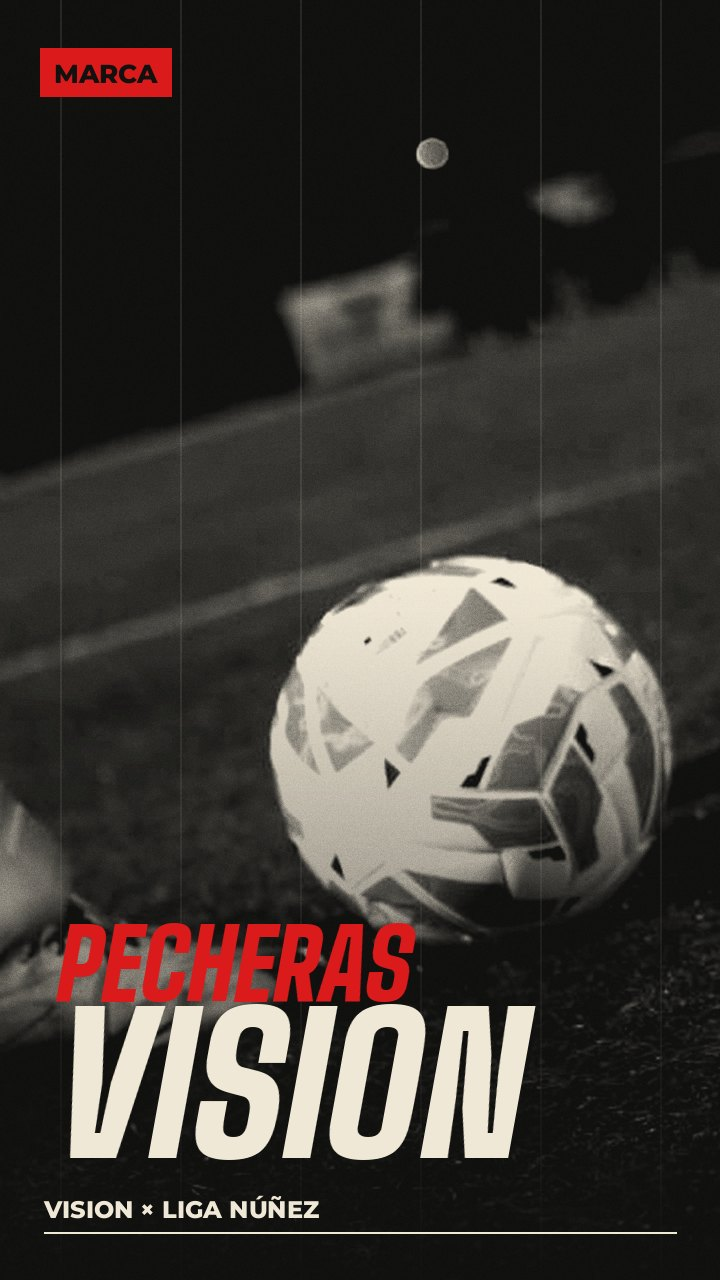
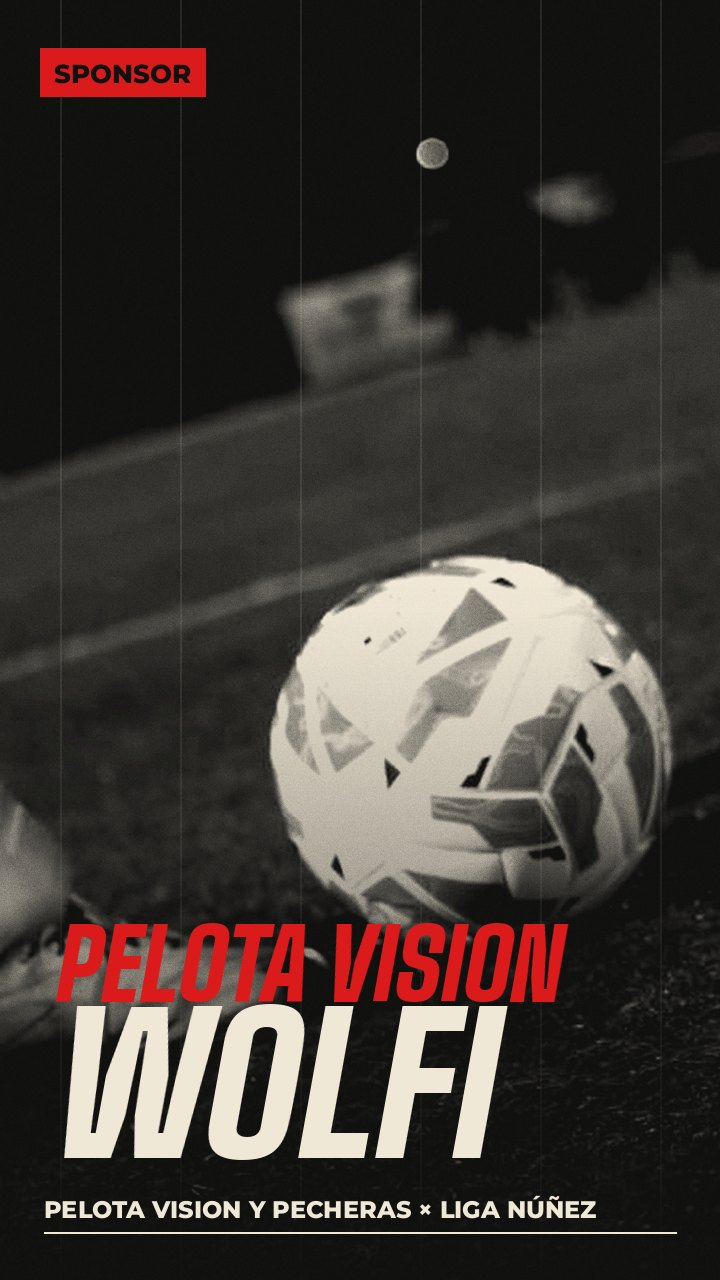
Pecheras y pelota Vision son de Wolfi
Claude-Session: https://claude.ai/code/session_01M6jUVZkPLQ8eqEsdzbFnz8

diff --git a/copa-potrero/index.html b/copa-potrero/index.html
@@ -684,7 +684,7 @@ footer .handles a{color:var(--paper);text-decoration:none}
     var w=document.createElement('div');w.className='am-rec';w.dataset.for=b.dataset.rec;w.innerHTML='<video controls playsinline autoplay poster="fotos-recap_'+b.dataset.rec+'.jpg" src="video-recap_'+b.dataset.rec+'.mp4"></video>';
     row.after(w);b.setAttribute('aria-expanded','true');b.textContent='Cerrar recap';});});
   // Conocé al plantel: videos y perfiles
-  var VID={carrizo:['1YErsHMQF9MYSPks3oBs1Zs0mmwu6G0vU','Fede Carrizo',1],sisca:['1IDbxAqHcB91uei9_JC191Vmy1HV4achP','Fabio Sisca'],porfi:['14DYa44bFU6EbJ7K5Ep1ccNRRMGQZHwzw','Sebastián Porfirio',1],carlos:['1IQ8JJNKn73pHLzlkj1NAlyWAKsttIMbr','Carlos Díaz',1],tute:['1S6Wawe5Lxfu2UDl3F4CPpAYbRqTN0W0q','Matías Miranda'],mateo:['1-x_NHtMXatKSWTtmpNT06TffCnXuMoxN','Mateo Flaherty'],pepe:['1sAkOOQNBlJn4tqrguOKerrRvJ4XhWKGA','Juan Agustín Basualdo',1],topomafia:['18T-0ZJr8yWYylHTr3daOoVKq2iiLZJ7o','El Topo',0,'El Topo'],churros:['1aI6glUrHpKO2qzgB8zMWOkWXx2x_NSuQ','Churros El Topo',0,'El Topo'],pecheras:['1RcNzfcecpOTHLXEj-LO9pYLQggeVzi67','Pecheras Vision',0,'Vision']};
+  var VID={carrizo:['1YErsHMQF9MYSPks3oBs1Zs0mmwu6G0vU','Fede Carrizo',1],sisca:['1IDbxAqHcB91uei9_JC191Vmy1HV4achP','Fabio Sisca'],porfi:['14DYa44bFU6EbJ7K5Ep1ccNRRMGQZHwzw','Sebastián Porfirio',1],carlos:['1IQ8JJNKn73pHLzlkj1NAlyWAKsttIMbr','Carlos Díaz',1],tute:['1S6Wawe5Lxfu2UDl3F4CPpAYbRqTN0W0q','Matías Miranda'],mateo:['1-x_NHtMXatKSWTtmpNT06TffCnXuMoxN','Mateo Flaherty'],pepe:['1sAkOOQNBlJn4tqrguOKerrRvJ4XhWKGA','Juan Agustín Basualdo',1],topomafia:['18T-0ZJr8yWYylHTr3daOoVKq2iiLZJ7o','El Topo',0,'El Topo'],churros:['1aI6glUrHpKO2qzgB8zMWOkWXx2x_NSuQ','Churros El Topo',0,'El Topo'],pecheras:['1RcNzfcecpOTHLXEj-LO9pYLQggeVzi67','Wolfi · Pelota Vision y pecheras',0,'Wolfi']};
   var REEL={reel:['carrizo','sisca','tute','mateo','porfi','pepe','carlos'],reelB:['topomafia','churros','pecheras']};
   var POSTER={ortigoza:'origoza'};
   // video de cada perfil (nombre del plantel -> clave de VID)
